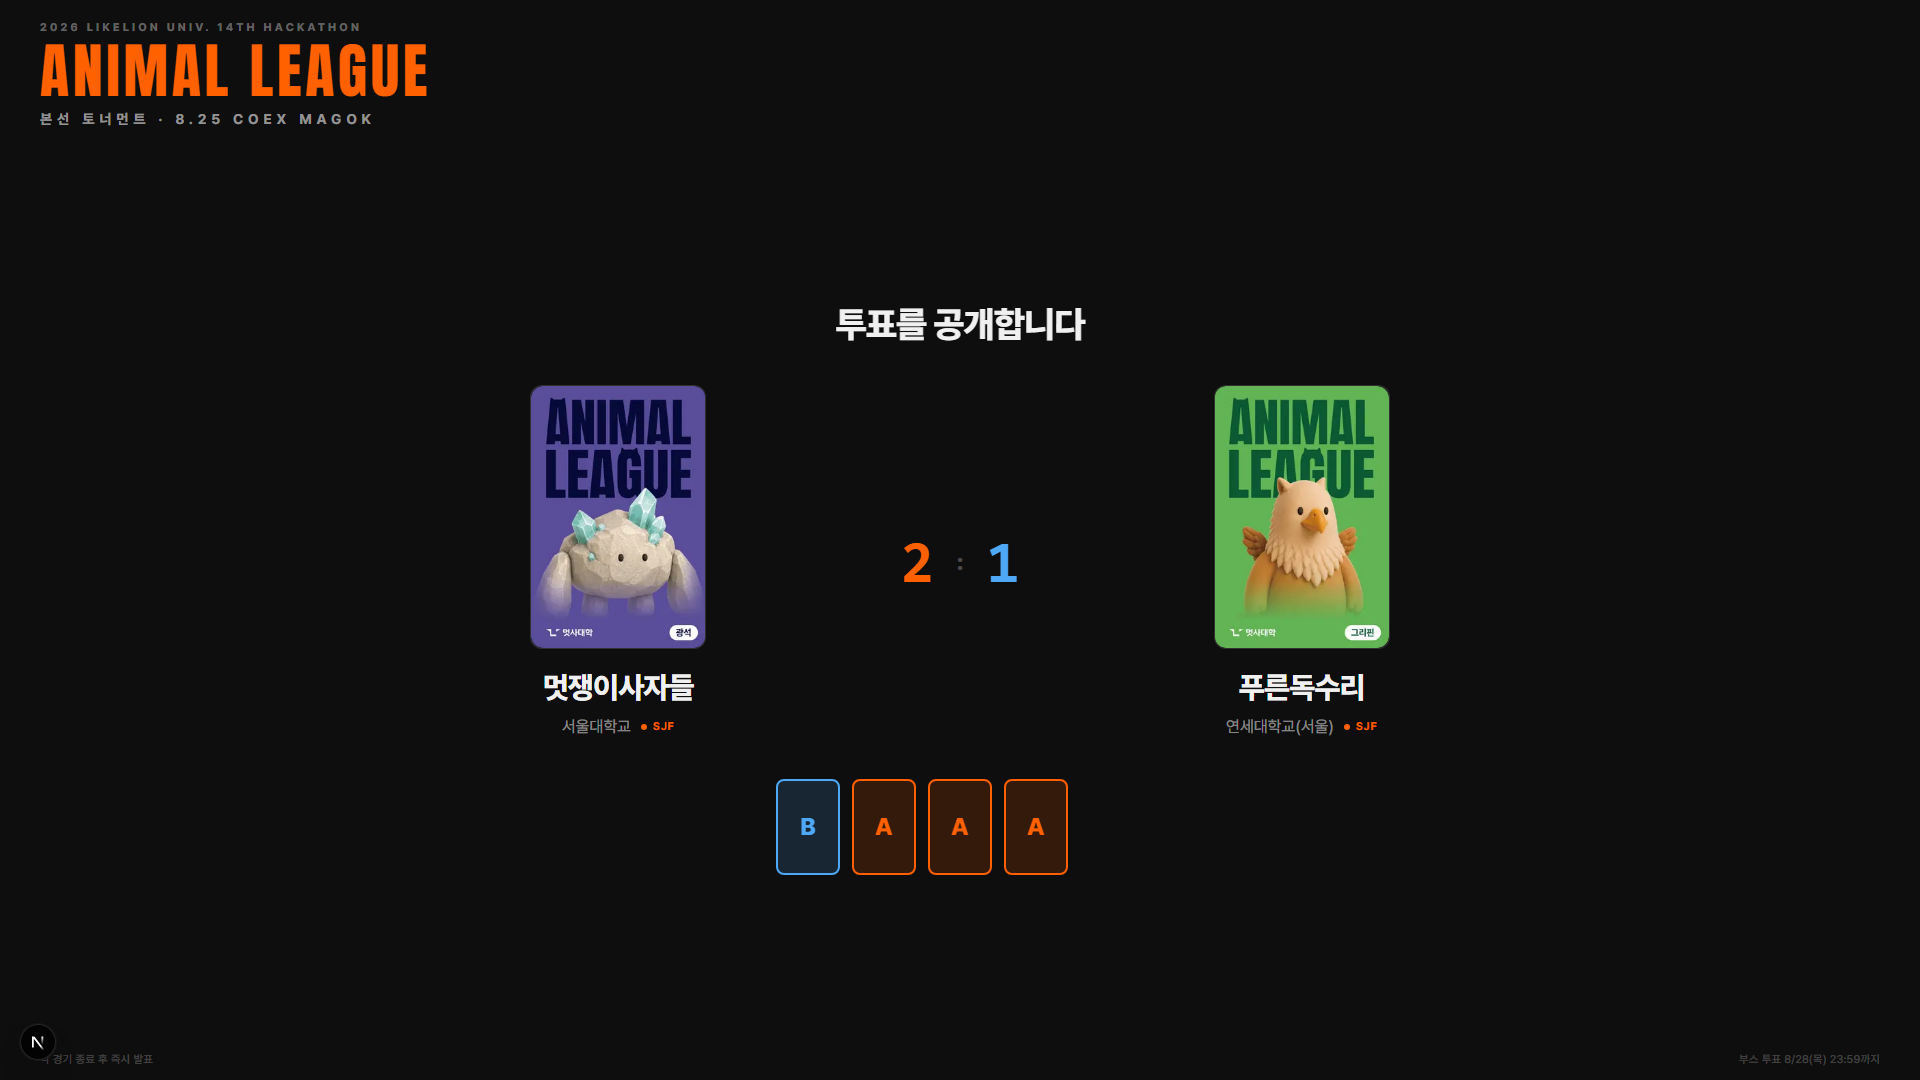
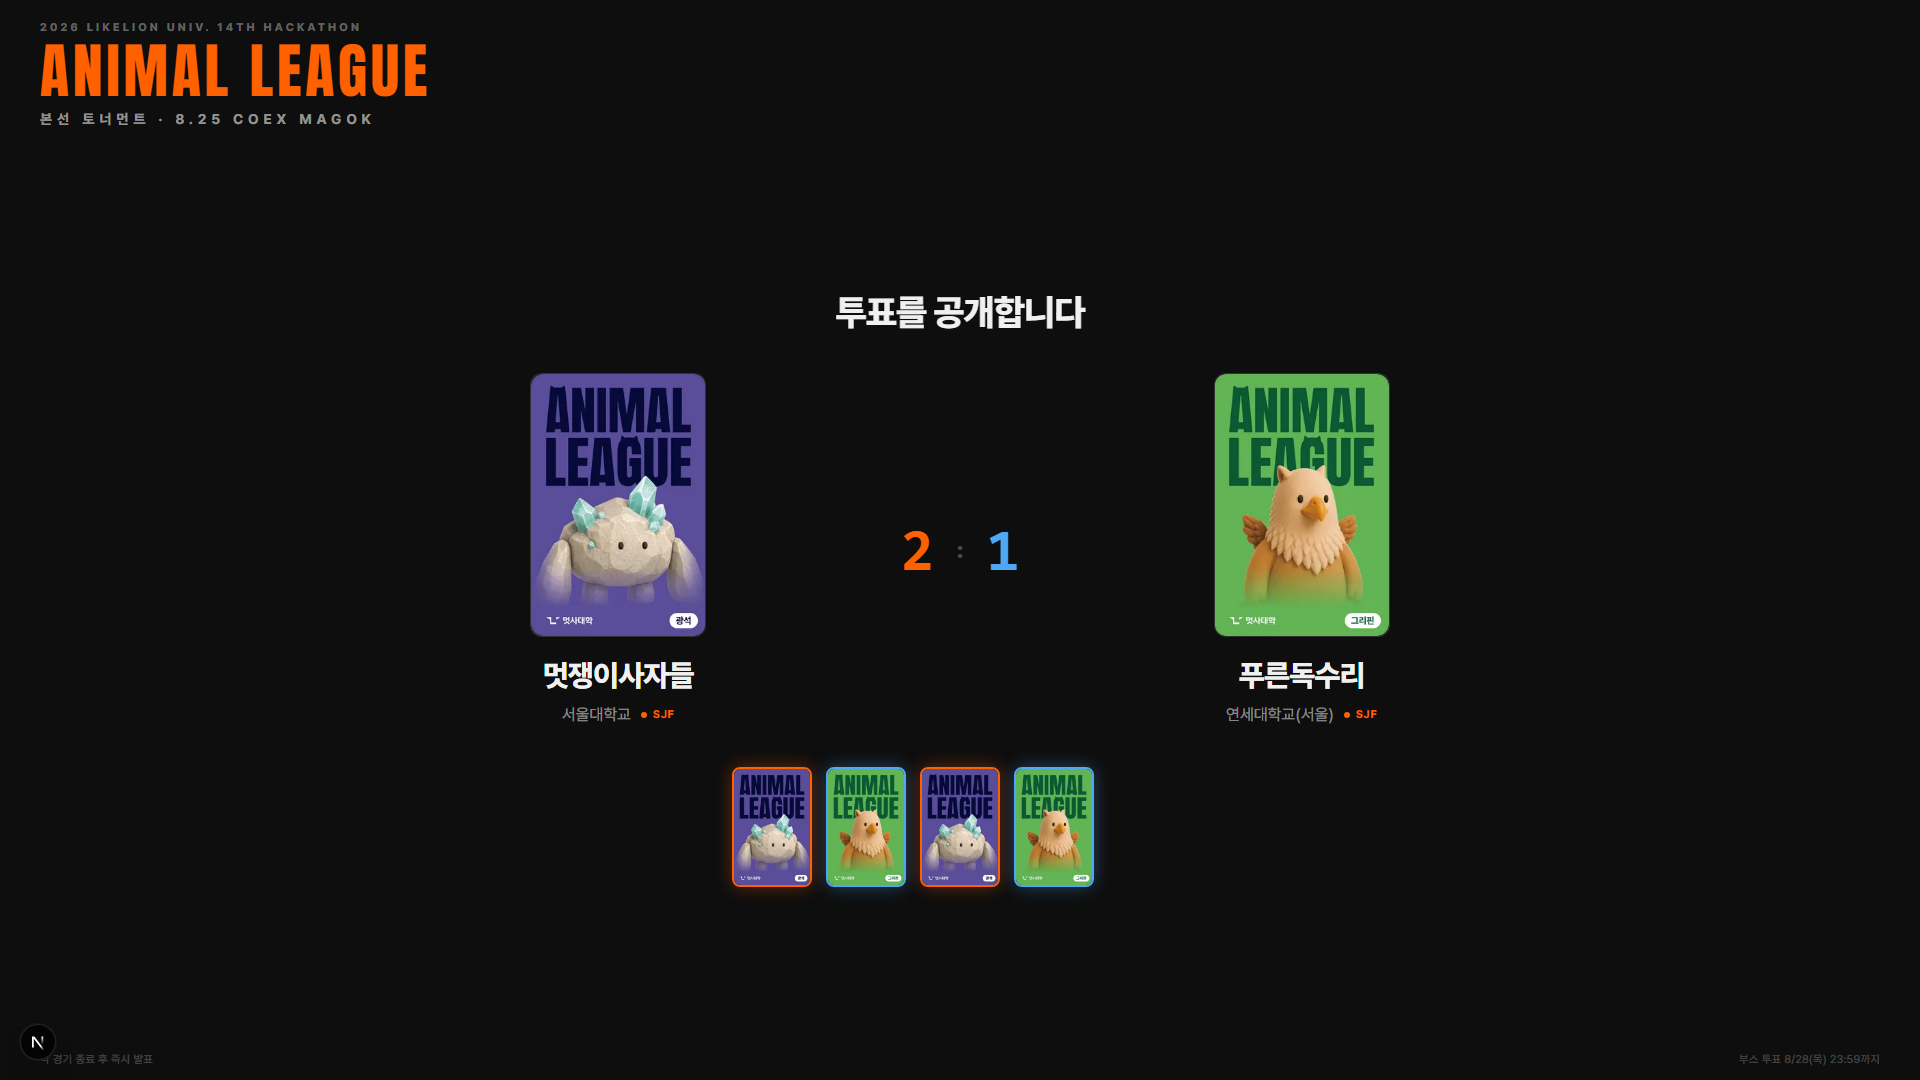
style(viewer): open team character cards in vote reveal, slow interval
시연 영상 피드백 두 건 반영.

- 투표 칩을 A/B 글자 → 표받은 팀의 캐릭터 카드로. A/B 는 어느 팀인지 한 번 더
  생각하게 만든다 — 캐릭터 카드가 곧 팀 아이덴티티다. 진영 구분은 칩 테두리
  색(A 오렌지 / B 블루)이 카운터 색과 이어진다. 대진 미확정 등 캐릭터가 없으면
  글자 폴백
- 오픈 간격 1.0s → 1.6s. 상수 CHIP_INTERVAL_MS 하나로 칩 스태거·카운터·시퀀스
  전체 길이가 같이 움직이게 묶었다 — 다음에 간격을 조정할 때 세 군데가 어긋나지 않는다

검증 — Playwright 재주행 (5표 3:2): 칩 4장 오픈 시점 캡처·승자 발표·브래킷 복귀,
데모 영상 2편 재녹화. tsc · eslint · build 통과.

diff --git a/app/page.tsx b/app/page.tsx
@@ -12,6 +12,7 @@
 // prefers-reduced-motion 이면 정지 상태로 표시만 한다.
 
 import { useCallback, useEffect, useRef, useState } from 'react';
+import Image from 'next/image';
 import { CharacterArt, TrackBadge } from '@/components/ui';
 import { winningTeamId, type Match, type Team } from '@/lib/tournament';
 
@@ -251,6 +252,9 @@ function BracketSide({
 
 const SIDE_COLORS: Record<'A' | 'B', string> = { A: 'var(--orange)', B: '#4FA8F6' };
 
+/** 투표 칩 오픈 간격 — 칩 애니메이션·카운터·시퀀스 전체 길이가 이 값 하나를 공유한다. */
+const CHIP_INTERVAL_MS = 1600;
+
 function TeamHero({
   state,
   index,
@@ -322,11 +326,12 @@ function RevealSequence({ state, match }: { state: PublicState; match: Match }) 
 
   useEffect(() => {
     if (votes.length === 0) return;
-    const timer = setTimeout(() => setShowWinner(true), votes.length * 1000 + 800);
+    const timer = setTimeout(() => setShowWinner(true), votes.length * CHIP_INTERVAL_MS + 800);
     return () => clearTimeout(timer);
   }, [votes.length]);
 
   const tally = (side: 'A' | 'B') => votes.filter((v) => v === side).length;
+  const chipCharacter = (side: 'A' | 'B') => teamAt(state, side === 'A' ? match.a : match.b)?.character ?? null;
 
   return (
     <div className="flex flex-1 flex-col items-center justify-center gap-8 py-6 lg:gap-10">
@@ -350,19 +355,25 @@ function RevealSequence({ state, match }: { state: PublicState; match: Match }) 
       </div>
 
       {votes.length > 0 && (
-        <div className="flex flex-wrap items-end justify-center gap-3">
+        <div className="flex flex-wrap items-end justify-center gap-3.5">
+          {/* 표받은 팀의 캐릭터 카드가 열린다 — A/B 글자는 어느 팀인지 한 번 더 생각하게 만든다 */}
           {votes.map((side, i) => (
             <div
               key={i}
-              className="vote-chip grid h-20 w-14 place-items-center rounded-lg border-2 text-2xl font-extrabold lg:h-24 lg:w-16"
+              className="vote-chip relative aspect-2/3 w-16 overflow-hidden rounded-lg border-2 bg-white/5 lg:w-20"
               style={{
-                animationDelay: `${i * 1}s`,
+                animationDelay: `${(i * CHIP_INTERVAL_MS) / 1000}s`,
                 borderColor: SIDE_COLORS[side],
-                background: `color-mix(in srgb, ${SIDE_COLORS[side]} 16%, transparent)`,
-                color: SIDE_COLORS[side],
+                boxShadow: `0 0 18px color-mix(in srgb, ${SIDE_COLORS[side]} 35%, transparent)`,
               }}
             >
-              {side}
+              {chipCharacter(side) ? (
+                <Image src={`/characters/${chipCharacter(side)}.png`} alt="" fill sizes="80px" className="object-cover" />
+              ) : (
+                <span className="grid h-full w-full place-items-center text-xl font-extrabold" style={{ color: SIDE_COLORS[side] }}>
+                  {side}
+                </span>
+              )}
             </div>
           ))}
         </div>
@@ -375,7 +386,7 @@ function RevealSequence({ state, match }: { state: PublicState; match: Match }) 
 function LiveTally({ votes, side }: { votes: ('A' | 'B')[]; side: 'A' | 'B' }) {
   const [opened, setOpened] = useState(0);
   useEffect(() => {
-    const timer = setInterval(() => setOpened((n) => Math.min(n + 1, votes.length)), 1000);
+    const timer = setInterval(() => setOpened((n) => Math.min(n + 1, votes.length)), CHIP_INTERVAL_MS);
     return () => clearInterval(timer);
   }, [votes.length]);
   return <>{votes.slice(0, opened).filter((v) => v === side).length}</>;
@@ -446,9 +457,9 @@ export default function ViewerPage() {
       const justDone = next.matches.find((m) => m.status === 'done' && prev[m.id] && prev[m.id] !== 'done');
       prevStatusRef.current = Object.fromEntries(next.matches.map((m) => [m.id, m.status]));
       if (justDone) {
-        // 시퀀스 길이 = 표 오픈(1초/장) + 카운트 여운 + 승자 발표 홀드
+        // 시퀀스 길이 = 표 오픈(CHIP_INTERVAL_MS/장) + 카운트 여운 + 승자 발표 홀드
         const voteCount = justDone.votes?.length ?? 0;
-        const total = (voteCount > 0 ? voteCount * 1000 + 800 : 0) + 4200;
+        const total = (voteCount > 0 ? voteCount * CHIP_INTERVAL_MS + 800 : 0) + 4200;
         setSequence(justDone);
         setTimeout(() => setSequence(null), total);
         // 시퀀스가 끝나고 브래킷으로 돌아왔을 때 해당 카드에 잔광
